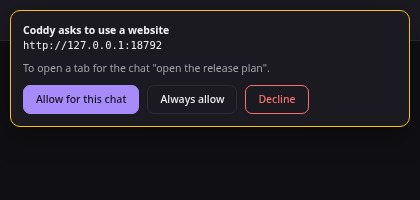
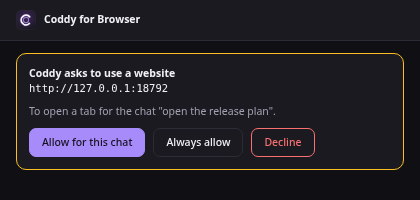
fix: the question window keeps its header
The rule that floats a question over the web UI was written for #approvals, which the approval window has too, so there the card covered the window's header. It applies to the side panel's stage only.

diff --git a/src/ui.css b/src/ui.css
@@ -386,7 +386,7 @@ body.panel > .error,
   display: flex;
   flex-direction: column;
 }
-#approvals {
+.stage > #approvals {
   position: absolute;
   top: 10px;
   left: 10px;
@@ -398,7 +398,7 @@ body.panel > .error,
 #approvals:empty {
   display: none;
 }
-#approvals .card {
+.stage > #approvals .card {
   margin: 0;
   /* The glass tint of the web UI over its solid ground: the chat under the
      card does not show through the text. */
